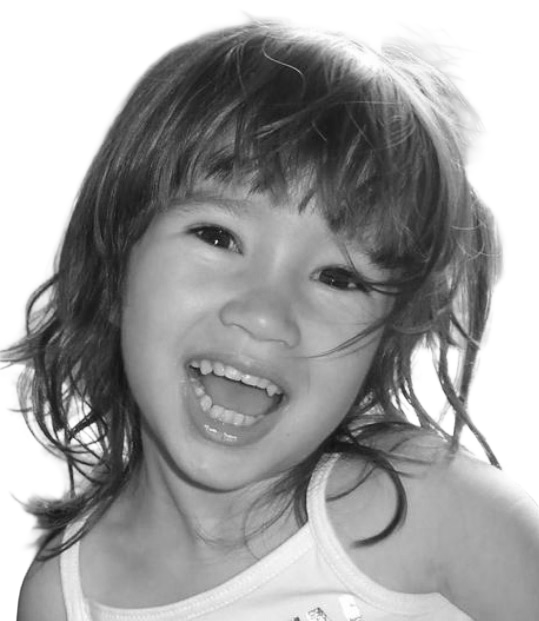
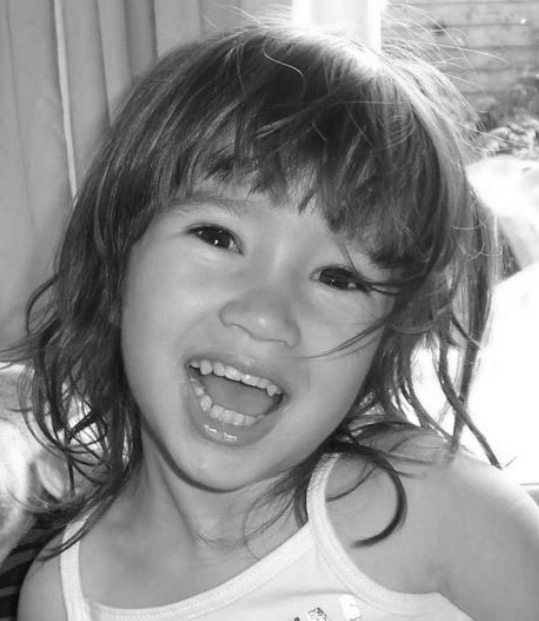
016

diff --git a/styles/homepage.css b/styles/homepage.css
@@ -1,26 +1,25 @@
-.flexbox {
-    display: flex;
-    justify-content: center;
-    align-items: center;
+.frame-wrap {
     position: relative;
-    height: 100vh;
-    flex-direction: row;
+    height: 200vh;
+    margin: 0 64px;
+    overflow: visible;
 }
 
-
-.little-me {
-    top: 50px;
-    width: 250px;  
+.little-me,
+.big-me {
+    position: absolute;
+    top: auto;
+    width: 250px;
     height: auto;
     display: block;
-    position: absolute;
     cursor: grab;
     user-select: none;
     touch-action: none;
+    z-index: 1;
 }
 
 
-.little-me .image {
+.little-me .image, .big-me .image {
     width: 100%;
     display: block;
     border: 8px solid #ffffff;
@@ -28,7 +27,6 @@
     box-shadow: 3px 8px 14px rgba(0, 0, 0, 0.39);
     background-color: #ffffff;
 }
-
 
 .tape {
     position: relative;
@@ -43,15 +41,25 @@
 }
 
 .little-me {
-    z-index: 1;
+    transform: rotate(-2deg);
 }
 
-.flexbox p {
-    position: absolute;
-    text-align: center;
-    top: 425px; /* underneath .little-me */
-    left: 50%;
-    transform: translateX(-50%);
+.big-me {
+    transform: rotate(1deg);
+}
+
+.welcome {
+    min-height: 110vh;          /* full viewport height */
+    display: flex;
+    justify-content: center;    /* horizontal */
+    align-items: center;   
+}
+
+.welcome p {
+    font-family: "ReenieBeanie", cursive;
+    font-weight: 300;
+    font-size: 20px;
     margin: 0;
-    z-index: 0; /* behind .little-me */
+    padding: 0;
+    text-align: center;
 }

diff --git a/index.html b/index.html
@@ -23,13 +23,21 @@
         </nav>     
     </header>
 
-    <div class="flexbox">
+    <div class="frame-wrap">
         <div class="little-me">
             <img src="images/Tape01.png" alt="" class="tape">
             <img src="images/little-me.png" alt="" class="image"> 
         </div>
-        <p>Welcome to my portfolio!<br>Every image in my portfolio can be dragged around and enlarged. </p>
+        <div class="big-me">
+            <img src="images/Tape02.png" alt="" class="tape">
+            <img src="images/big-me.png" alt="" class="image"> 
+        </div>
+        <div class="welcome">
+            <p>Welcome to my portfolio!<br>Every image in my portfolio can be dragged (drag) and enlarged (click). </p>     
+        </div>
+
     </div>
+
 
     <script src="scripts/homepage.js"></script>
 </body>

diff --git a/scripts/homepage.js b/scripts/homepage.js
@@ -1,4 +1,4 @@
-const items = document.querySelectorAll(".object, .little-me");
+const items = document.querySelectorAll(".object, .little-me, .big-me");
 
 // Start from current highest z-index in the page
 let topZ = Math.max(
